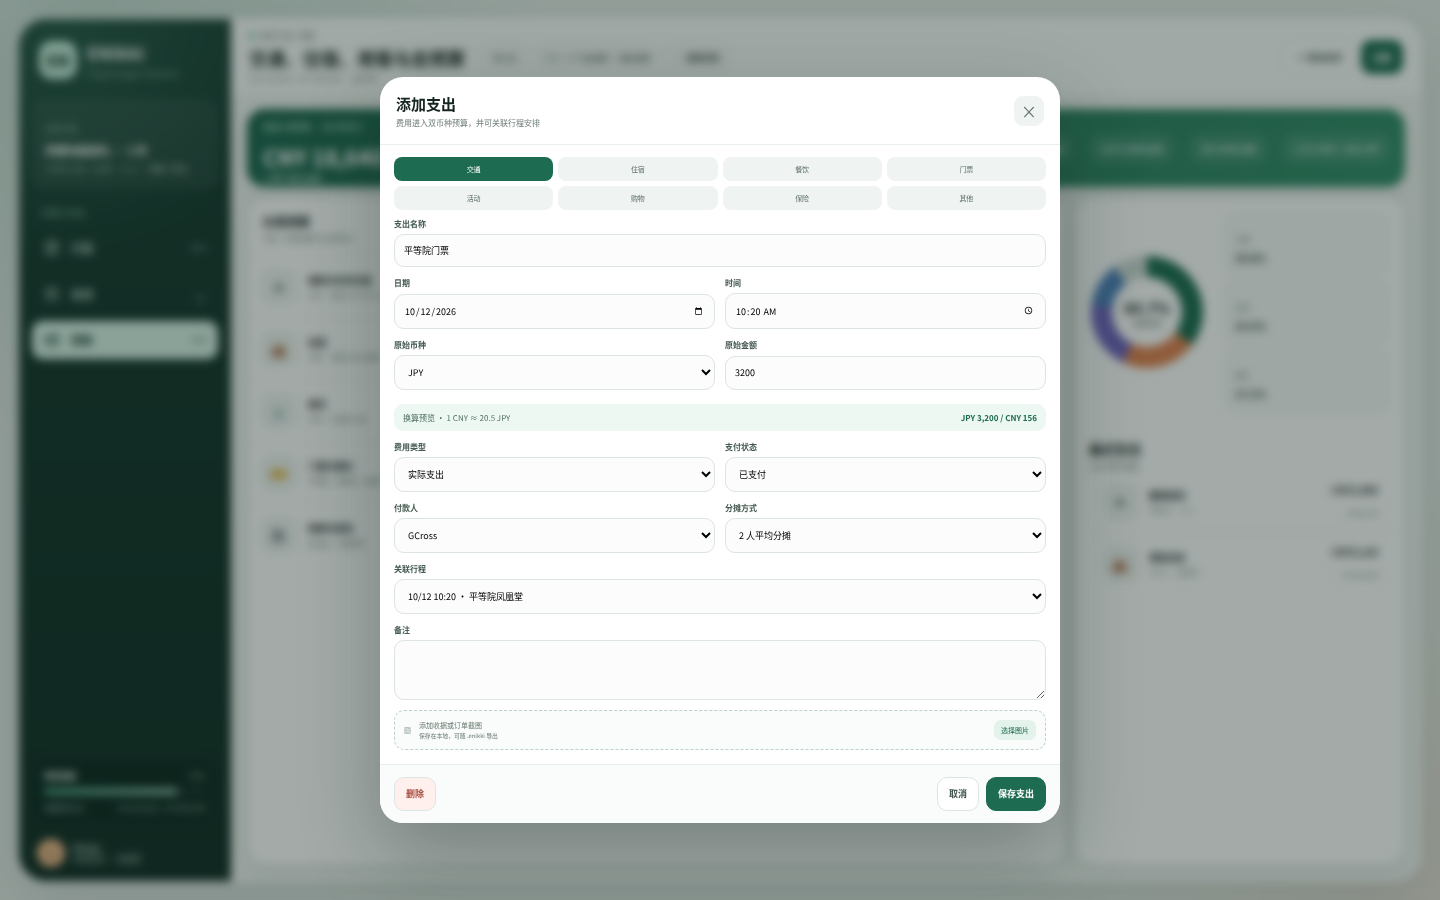
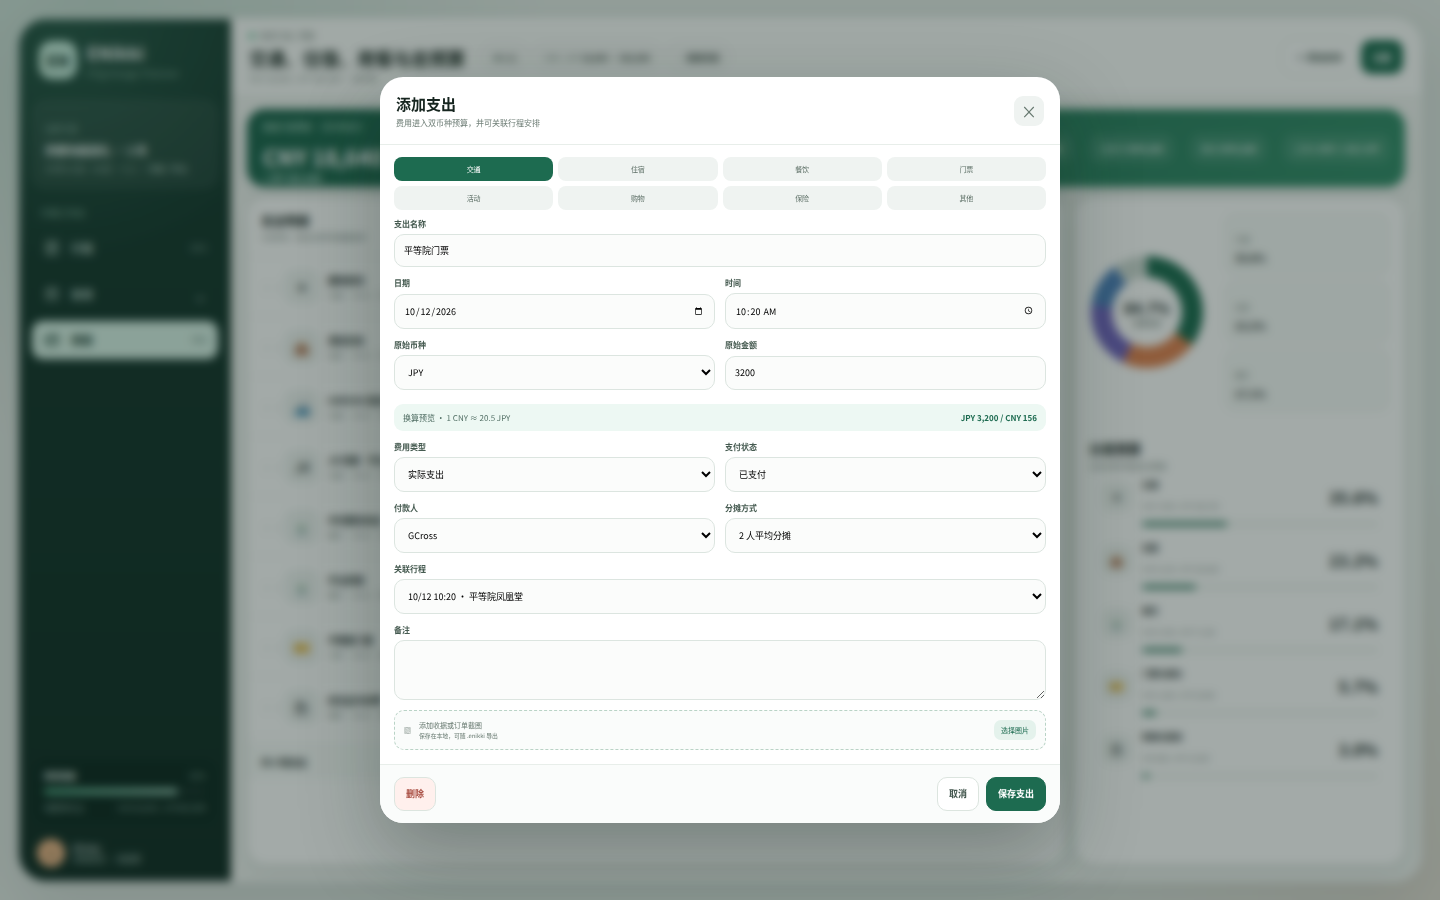
design: make expense ledger the primary budget view

diff --git a/design/enikki-ui.html b/design/enikki-ui.html
@@ -31,6 +31,8 @@ body{min-width:1080px;min-height:720px;display:grid;place-items:center;padding:1
 @media(max-width:760px){
   body{min-width:0;min-height:100%;padding:0;background:#eff3f0}.app{width:100vw;height:100vh;min-height:0;grid-template-columns:1fr;grid-template-rows:minmax(0,1fr) calc(60px + env(safe-area-inset-bottom));border-radius:0;border:0}.rail{grid-row:2;flex-direction:row;padding:5px 5px calc(5px + env(safe-area-inset-bottom))}.brand,.trip-switch,.rail-foot,.nav-label{display:none}.nav{width:100%;display:grid;grid-template-columns:repeat(3,1fr);gap:2px}.nav button[data-view="plan"]{order:1}.nav [data-mobile-sheet]{order:2}.nav button[data-view="budget"]{order:3}.nav button{min-width:0;flex-direction:column;justify-content:center;gap:3px;padding:5px 2px;border-radius:9px}.nav svg{width:19px;height:19px}.nav b{font-size:8px;white-space:nowrap}.nav em,.nav-group,.subnav{display:none!important}.mobile-only{display:flex!important}.main{grid-row:1}.topbar{min-height:60px;padding:9px 10px;gap:7px}.title{min-width:0}.title h2{font-size:15px}.title p{max-width:190px;white-space:nowrap;overflow:hidden;text-overflow:ellipsis}.trip-stats{display:none}.top-actions{margin-left:auto}.top-actions .btn{display:none}.top-actions .mobile-add,.top-actions .mobile-settings{display:inline-flex!important;min-height:32px;padding:0 9px}.content{padding:9px;overflow:auto}.page{height:auto;min-height:100%}.trip-strip{height:auto;display:grid;grid-template-columns:1fr 1fr;gap:9px}.trip-strip .grow{grid-column:1/-1}.workbench,.arrange-body,.budget-body,.settings-layout{display:block;height:auto}.day-panel{display:none}.map-panel{height:380px;margin-bottom:9px}.map-toolbar{left:9px;right:9px;top:9px}.search{width:210px}.map-actions .chip:last-child{display:none}.timeline-panel{height:560px}.arrange-head{height:auto;display:block}.tabs{margin-bottom:9px;overflow:auto}.arrange-head .summary{display:none}.side-panel{margin-top:9px}.budget-strip{height:auto;flex-wrap:wrap;margin-bottom:9px}.budget-strip .total{font-size:19px}.budget-list{margin-top:9px}.meal-grid,.data-actions{grid-template-columns:1fr}.donut-wrap{grid-template-columns:100px 1fr}.donut{width:95px;height:95px}.donut:before{inset:18px}.settings-layout>div{margin-bottom:9px}.type-tabs{grid-template-columns:repeat(3,1fr)}.form-grid{grid-template-columns:1fr}.field.full{grid-column:auto}.photo-groups{grid-column:auto}.source-list{grid-template-columns:1fr}.expense-cats{grid-template-columns:repeat(2,1fr)}.pair{grid-template-columns:1fr 28px 1fr}.photo-slot{min-height:82px}.modal{width:100%;max-height:90vh;border-radius:22px 22px 0 0;align-self:end}.backdrop{place-items:end center;padding:0}.sheet-grid{grid-template-columns:1fr 1fr}.sheet-panel h3{margin:0 0 10px;font-size:13px}
 }
+.expense-ledger{display:flex;flex-direction:column;min-height:0}.ledger-head{display:flex;align-items:center;gap:10px;padding:12px 13px;border-bottom:1px solid #edf1ee}.ledger-head h3{margin:0;font-size:12px}.ledger-head p{margin:3px 0 0;color:var(--muted);font-size:7px}.ledger-head .actions{margin-left:auto;display:flex;gap:6px}.sort-select{padding:7px 8px;border:1px solid var(--line);border-radius:8px;color:#53675e;background:#fbfcfb;font-size:7px}.ledger-list{min-height:0;overflow:auto;padding-bottom:8px}.ledger-row{position:relative;display:grid;grid-template-columns:16px 36px minmax(0,1fr) auto;gap:8px;align-items:center;padding:10px 12px;border-bottom:1px solid #edf1ee;background:#fff;cursor:pointer}.ledger-row:hover{background:#f7fbf9}.ledger-row.dragging{opacity:.45}.drag-handle{color:#9caaa3;cursor:grab;font-size:12px}.ledger-row h4{margin:0;font-size:9px}.ledger-row p{margin:3px 0 0;color:var(--muted);font-size:7px}.ledger-row .amount{text-align:right}.ledger-row .amount b{display:block;font-size:10px}.ledger-row .amount small{color:var(--muted);font-size:7px}.ledger-total{display:flex;justify-content:space-between;padding:10px 13px;border-top:1px solid #e5ece8;background:#f8fbf9;font-size:9px;font-weight:800}.budget-summary{min-height:0;overflow:auto}.category-list{padding:0 13px 13px}.category-row{display:grid;grid-template-columns:32px minmax(0,1fr) auto;gap:8px;align-items:center;padding:8px 0}.category-icon{width:30px;height:30px;display:grid;place-items:center;border-radius:9px;background:#f0f4f2;font-size:12px}.category-row h4{margin:0;font-size:8px}.category-row small{color:var(--muted);font-size:7px}.category-bar{grid-column:2/4;height:4px;border-radius:99px;background:#e9efeb;overflow:hidden}.category-bar span{display:block;height:100%;border-radius:inherit;background:var(--green)}
+
 </style>
 </head>
 <body>
@@ -156,17 +158,23 @@ body{min-width:1080px;min-height:720px;display:grid;place-items:center;padding:1
       <section class="page" id="page-budget">
         <div class="budget-strip"><div><small>整趟行程预算 · 双币种显示</small><div class="total">CNY 18,640 <span class="pair">/ JPY 382,000</span></div></div><div class="spacer"></div><span class="stat">预算上限 <b>CNY22,000</b></span><span class="stat">已支付 <b>CNY9,260</b></span><span class="stat">剩余 <b>CNY3,360</b></span><span class="stat">汇率 <b>1 CNY ≈ 20.5 JPY</b></span></div>
         <div class="budget-body">
-          <div class="panel budget-list">
-            <div class="timeline-head"><div><h3>分类预算</h3><p>交通、住宿和餐饮为主要支出</p></div><button class="btn soft" style="margin-left:auto" onclick="openExpenseEditor()">＋ 添加支出</button></div>
-            <div class="budget-row"><div class="budget-icon">✈</div><div><h4>城际与市内交通</h4><p>8 段 · 预估 CNY7,840 / 实际 CNY6,900</p></div><div class="amount"><b>CNY7,840</b><small>JPY160,700 · 35.6%</small></div></div>
-            <div class="budget-row"><div class="budget-icon">🏨</div><div><h4>住宿</h4><p>2 晚 · 京都八条口酒店</p></div><div class="amount"><b>CNY5,120</b><small>JPY105,000 · 23.2%</small></div></div>
-            <div class="budget-row"><div class="budget-icon">🍵</div><div><h4>餐饮</h4><p>9 餐 · 已安排 4 餐</p></div><div class="amount"><b>CNY3,760</b><small>JPY77,100 · 17.1%</small></div></div>
-            <div class="budget-row"><div class="budget-icon">🎫</div><div><h4>门票与预约</h4><p>平等院、博物馆、咖啡厅</p></div><div class="amount"><b>CNY1,260</b><small>JPY25,800 · 5.7%</small></div></div>
-            <div class="budget-row"><div class="budget-icon">🛍</div><div><h4>购物与其他</h4><p>纪念品、交通杂费</p></div><div class="amount"><b>CNY660</b><small>JPY13,500 · 3.5%</small></div></div>
-          </div>
-          <aside class="panel" style="overflow:auto">
+          <section class="panel expense-ledger">
+            <div class="ledger-head"><div><h3>支出明细</h3><p>点击修改，拖动左侧手柄调整排序</p></div><div class="actions"><select class="sort-select"><option>手动排序</option><option>按日期</option><option>按金额</option><option>按分类</option></select><button class="btn soft" onclick="openExpenseEditor()">＋ 添加支出</button></div></div>
+            <div class="ledger-list" id="expenseList">
+              <div class="ledger-row" draggable="true" onclick="openExpenseEditor('国际航班')"><span class="drag-handle">⋮⋮</span><span class="budget-icon">✈</span><div><h4>国际航班</h4><p>交通 · 10/12 · 已支付 · GCross</p></div><div class="amount"><b>CNY 2,960</b><small>JPY 60,700</small></div></div>
+              <div class="ledger-row" draggable="true" onclick="openExpenseEditor('酒店定金')"><span class="drag-handle">⋮⋮</span><span class="budget-icon">🏨</span><div><h4>酒店定金</h4><p>住宿 · 10/12 · 已支付 · 2 人分摊</p></div><div class="amount"><b>CNY 5,120</b><small>JPY 105,000</small></div></div>
+              <div class="ledger-row" draggable="true" onclick="openExpenseEditor('HARUKA 指定席')"><span class="drag-handle">⋮⋮</span><span class="budget-icon">🚄</span><div><h4>HARUKA 指定席</h4><p>交通 · 10/12 · 待支付 · 2 人分摊</p></div><div class="amount"><b>JPY 7,600</b><small>≈ CNY 371</small></div></div>
+              <div class="ledger-row" draggable="true" onclick="openExpenseEditor('JR 京都—宇治')"><span class="drag-handle">⋮⋮</span><span class="budget-icon">JR</span><div><h4>JR 京都—宇治</h4><p>交通 · 10/12 · 已支付 · 2 人分摊</p></div><div class="amount"><b>JPY 480</b><small>≈ CNY 23</small></div></div>
+              <div class="ledger-row" draggable="true" onclick="openExpenseEditor('中村藤吉本店')"><span class="drag-handle">⋮⋮</span><span class="budget-icon">🍵</span><div><h4>中村藤吉本店</h4><p>餐饮 · 10/12 · 已预约 · 2 人分摊</p></div><div class="amount"><b>JPY 4,200</b><small>≈ CNY 205</small></div></div>
+              <div class="ledger-row" draggable="true" onclick="openExpenseEditor('宇治茶屋')"><span class="drag-handle">⋮⋮</span><span class="budget-icon">🍵</span><div><h4>宇治茶屋</h4><p>餐饮 · 10/12 · 预估 · 2 人分摊</p></div><div class="amount"><b>JPY 1,600</b><small>≈ CNY 78</small></div></div>
+              <div class="ledger-row" draggable="true" onclick="openExpenseEditor('平等院门票')"><span class="drag-handle">⋮⋮</span><span class="budget-icon">🎫</span><div><h4>平等院门票</h4><p>门票 · 10/12 · 预估 · 2 人分摊</p></div><div class="amount"><b>JPY 3,200</b><small>≈ CNY 156</small></div></div>
+              <div class="ledger-row" draggable="true" onclick="openExpenseEditor('纪念品与杂费')"><span class="drag-handle">⋮⋮</span><span class="budget-icon">🛍</span><div><h4>纪念品与杂费</h4><p>购物 · 10/14 · 预估 · GCross</p></div><div class="amount"><b>CNY 660</b><small>JPY 13,500</small></div></div>
+            </div>
+            <div class="ledger-total"><span>共 8 笔支出</span><span>CNY 18,640 / JPY 382,000</span></div>
+          </section>
+          <aside class="panel budget-summary">
             <div class="donut-wrap"><div class="donut"><span>84.7%<small>预算使用</small></span></div><div><div class="metric"><small>交通</small><b>35.6%</b></div><div class="metric" style="margin-top:6px"><small>住宿</small><b>23.2%</b></div><div class="metric" style="margin-top:6px"><small>餐饮</small><b>17.1%</b></div></div></div>
-            <div class="section"><div class="section-title"><div><h3>最近支出</h3><p>点击记录可编辑</p></div></div><div class="budget-row" onclick="openExpenseEditor('国际航班')"><div class="budget-icon">✈</div><div><h4>国际航班</h4><p>已支付 · 2 人</p></div><div class="amount"><b>CNY2,960</b><small>JPY60,700</small></div></div><div class="budget-row" onclick="openExpenseEditor('酒店定金')"><div class="budget-icon">🏨</div><div><h4>酒店定金</h4><p>10/12 · 信用卡</p></div><div class="amount"><b>CNY5,120</b><small>JPY105,000</small></div></div></div>
+            <div class="section"><div class="section-title"><div><h3>分类预算</h3><p>点击分类可筛选支出明细</p></div></div><div class="category-list"><div class="category-row"><span class="category-icon">✈</span><div><h4>交通</h4><small>CNY 7,840 / JPY 160,700</small></div><b>35.6%</b><div class="category-bar"><span style="width:36%"></span></div></div><div class="category-row"><span class="category-icon">🏨</span><div><h4>住宿</h4><small>CNY 5,120 / JPY 105,000</small></div><b>23.2%</b><div class="category-bar"><span style="width:23%"></span></div></div><div class="category-row"><span class="category-icon">🍵</span><div><h4>餐饮</h4><small>CNY 3,760 / JPY 77,100</small></div><b>17.1%</b><div class="category-bar"><span style="width:17%"></span></div></div><div class="category-row"><span class="category-icon">🎫</span><div><h4>门票与预约</h4><small>CNY 1,260 / JPY 25,800</small></div><b>5.7%</b><div class="category-bar"><span style="width:6%"></span></div></div><div class="category-row"><span class="category-icon">🛍</span><div><h4>购物与其他</h4><small>CNY 660 / JPY 13,500</small></div><b>3.0%</b><div class="category-bar"><span style="width:3%"></span></div></div></div></div>
           </aside>
         </div>
       </section>
@@ -275,6 +283,16 @@ function updateExpenseConversion(){const a=Number(document.getElementById('expen
 function saveExpenseEditor(){toast('支出已保存，预算汇总已更新');closeExpenseEditor();}
 document.querySelectorAll('.expense-cat').forEach(b=>b.addEventListener('click',()=>{document.querySelectorAll('.expense-cat').forEach(x=>x.classList.remove('active'));b.classList.add('active');}));
 document.addEventListener('keydown',e=>{if(e.key==='Escape'){closePlanEditor();closeExpenseEditor();closePhotoSource();closeMobileSheet();}});
+let draggedExpense=null;let expenseDragging=false;
+const expenseList=document.getElementById('expenseList');
+if(expenseList){
+  expenseList.addEventListener('dragstart',e=>{const row=e.target.closest('.ledger-row');if(!row)return;draggedExpense=row;expenseDragging=true;row.classList.add('dragging');});
+  expenseList.addEventListener('dragend',()=>{draggedExpense?.classList.remove('dragging');setTimeout(()=>{expenseDragging=false;draggedExpense=null;},0);});
+  expenseList.addEventListener('dragover',e=>{e.preventDefault();if(!draggedExpense)return;const target=e.target.closest('.ledger-row');if(!target||target===draggedExpense)return;const rect=target.getBoundingClientRect();const after=e.clientY>rect.top+rect.height/2;expenseList.insertBefore(draggedExpense,after?target.nextSibling:target);});
+  expenseList.addEventListener('drop',e=>{e.preventDefault();toast('支出顺序已更新');});
+  expenseList.addEventListener('click',e=>{if(expenseDragging){e.preventDefault();e.stopPropagation();}},true);
+}
+document.querySelector('.sort-select')?.addEventListener('change',e=>toast(`已切换为${e.target.value}`));
 let timer;function toast(text){const t=document.getElementById('toast');t.textContent=text;t.classList.add('show');clearTimeout(timer);timer=setTimeout(()=>t.classList.remove('show'),2200);}
 const params=new URLSearchParams(location.search);const initialView=params.get('view')||'plan';if(params.get('tab'))activeArrangeTab=params.get('tab');activateView(initialView,false);if(params.get('editor')==='add')openPlanEditor(params.get('type')||'spot');if(params.get('photoSource'))setTimeout(()=>{const side=params.get('photoSide')==='actual'?'actual':'reference';document.querySelector(`.photo-slot[data-photo-side="${side}"]`)?.click();},0);if(params.get('expense')==='add')openExpenseEditor();if(params.get('sheet')==='arrange')document.getElementById('mobileSheet').classList.add('open');
 </script>

diff --git a/docs/IMPLEMENTATION_PLAN.md b/docs/IMPLEMENTATION_PLAN.md
@@ -174,7 +174,7 @@ lib/
 | `LodgingOption` | id、区域、日期、价格区间、预订链接 | 只保存规划信息和跳转地址 |
 | `MealPlan` | id、日期、餐次、时间窗、地点、预约状态 | 行程中的一次用餐安排 |
 | `MealOption` | id、餐厅、坐标、营业时间、人均、预约链接 | 可比较的餐厅候选 |
-| `BudgetItem` | id、类别、金额、币种、预估/实际 | 交通、住宿、餐饮、门票等预算与支出 |
+| `BudgetItem` | id、类别、金额、币种、预估/实际、排序 | 交通、住宿、餐饮、门票等预算与支出 |
 | `VisitRecord` | id、点位、到达时间、状态、备注 | 打卡与现场反馈 |
 | `CheckInRecord` | id、点位、照片、时间、位置、备注 | 一次拍照打卡记录 |
 | `PhotoComparisonGroup` | 参考图、实拍图、对比模式、顺序 | 一组图片对比记录 |

diff --git a/docs/TRIP_PLANNING.md b/docs/TRIP_PLANNING.md
@@ -71,7 +71,7 @@ note        纯备注
 | `MealPlan` | 日期、餐次、时间窗、地点、用餐时长 | 行程中的一次用餐安排 |
 | `MealOption` | 餐厅、坐标、营业时间、人均、预约链接 | 可比较的具体餐厅候选 |
 | `DietaryPreference` | 素食、清真、过敏、忌口、儿童餐 | 纳入餐厅筛选和提醒 |
-| `BudgetItem` | 类别、金额、币种、预估/实际、支付人 | 行程预算与支出 |
+| `BudgetItem` | 类别、金额、币种、预估/实际、支付人、排序 | 行程预算与支出 |
 | `BookingLink` | 平台、对象、深链接、来源、更新时间 | 只跳转，不保存账号和支付信息 |
 
 金额继续使用最小货币单位整数加 ISO 4217 币种，禁止使用浮点数。

diff --git a/README.md b/README.md
@@ -102,6 +102,8 @@ ENikki 会覆盖交通和住宿的**规划环节**，但不直接承担交易环
 - 保留每笔费用的原币种，总预算、分类和每日汇总同时显示两种金额。
 - 支持汇率来源、生效时间、固定费用和按人数分摊。
 - 在行程规划阶段提前显示预算占用比例，并提示超支风险。
+- 支出明细作为预算页主视图，完整列出交通、住宿、餐饮、门票和其他支出。
+- 支持点击支出记录编辑，并拖动手柄调整排序。
 - 支持添加和编辑支出，记录原始币种、双币种换算、日期、付款人、分摊和收据。
 - 在旅途中快速补记支出，在结束后生成分类汇总。
 

diff --git a/docs/TRIP_PLANNING_ARCHITECTURE.md b/docs/TRIP_PLANNING_ARCHITECTURE.md
@@ -515,6 +515,7 @@ final class BudgetItem {
   final String? linkedItemId;
   final Set<String> travelerIds;
   final PaymentStatus paymentStatus;
+  final int sortOrder;
   final String? note;
 }
 ```
@@ -544,6 +545,9 @@ BudgetSummary calculateBudget(
   RateTable rates,
 );
 ```
+
+支出明细使用显式 `sortOrder` 保存顺序。应用层提供 `ReorderBudgetItems`
+命令，支持手动排序，也可以派生按日期、金额或分类排序的只读视图。
 
 导出时不只保存总额，还保存形成总额的汇率、分摊方式和预算项快照。
 

diff --git a/design/README.md b/design/README.md
@@ -70,6 +70,9 @@ enikki-ui.html?view=budget&expense=add
 
 ### 预算
 
+支出明细位于主区域并完整列出全部支出，支持点击编辑和拖动排序；分类预算与
+占比图表位于右侧。
+
 ![桌面预算](preview-budget.png)
 
 ### 设置
